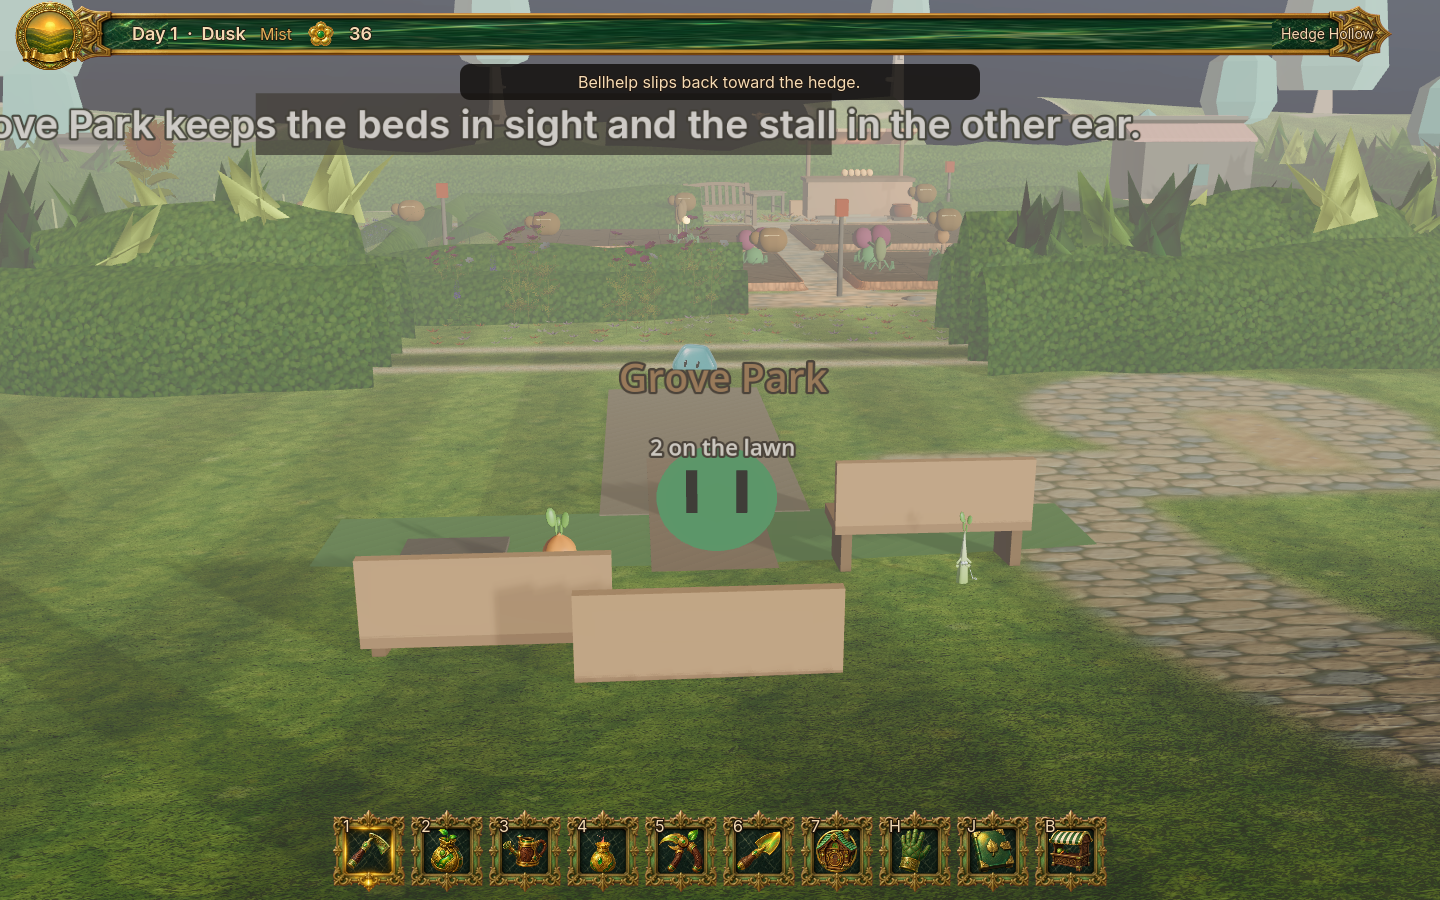
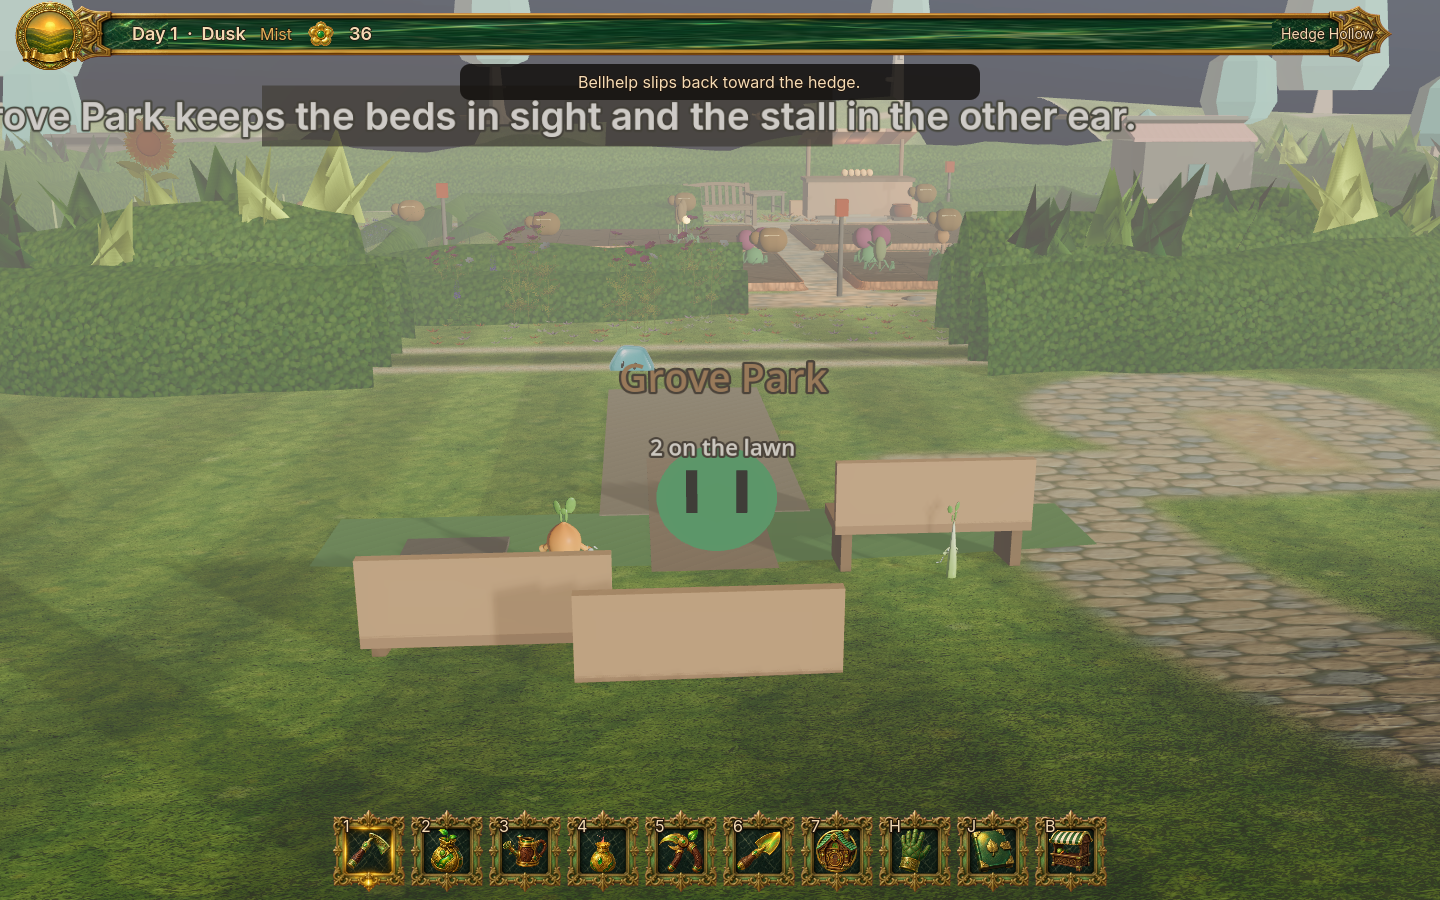
Walk Lumen and Bram through the hedge gate onto the lawn.
A park visit is a trip, not a loop: the gate, then the grass, then they stay. The dusk plates show them in the opening and on the lawn with Bellhelp.

diff --git a/docs/CURRENT_STATE.md b/docs/CURRENT_STATE.md
@@ -23,7 +23,7 @@ Grove Park lawn exists in the scene and stays hidden until Nessa files `parish_p
 Pass 2 from `petal/08-integration` is in this tree: inspect snack, pouch feed, hungry face, dusk park stroll, jam and tea, vale carts, ask-first map.
 Approved jelly cut-outs (`assets/art/images/PETAL-08-101/`) are the resting card. Hunger, a grab, a poke, or a throw shows a simple gel icon (one body, two black eyes) instead of the petal bell. The icon turns to face the camera.
 Sign-off CAM_06 still stages its own `SignoffJelly` card.
-Grove Park, once Nessa files it, is a lawn with benches and one worn walk from the lawn to the hedge gate. Lumen and Bram take leisure there. `grove_park.active` stays false.
+Grove Park, once Nessa files it, is a lawn with benches and one worn walk from the lawn to the hedge gate. Lumen and Bram walk through that gate to the grass and stay there. `grove_park.active` stays false.
 
 ## ACTIVE AGENTS
 

diff --git a/docs/CAMPAIGN_BOARD.md b/docs/CAMPAIGN_BOARD.md
@@ -9,7 +9,7 @@ Playable Hedge Hollow on `petal/09-art-rescue`, continued on `cursor/playable-je
 - Tend the four beds. Feed a jelly from a ripe plant or the pouch.
 - Grab, nuzzle, throw. A fed idle jelly shows the approved cut-out. Hunger or a grab shows the gel icon.
 - Stall, jam, tea, journal. Vale map on M. Town page on C.
-- Grove Park opens after the road rumour and Nessa's filing: lawn, benches, a walk to the hedge gate, and Lumen and Bram on the grass. Catalog stays `active: false`.
+- Grove Park opens after the road rumour and Nessa's filing. Lumen and Bram walk through the hedge gate and stay on the grass. Catalog stays `active: false`.
 
 ## NEXT
 
